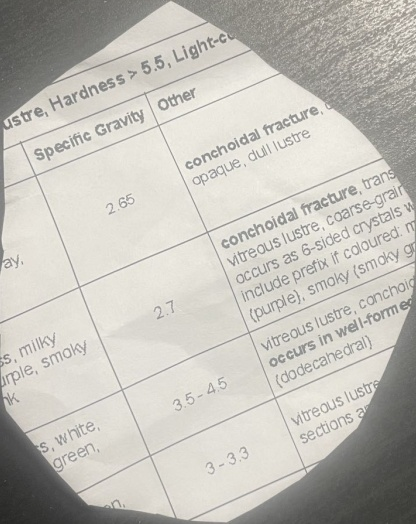
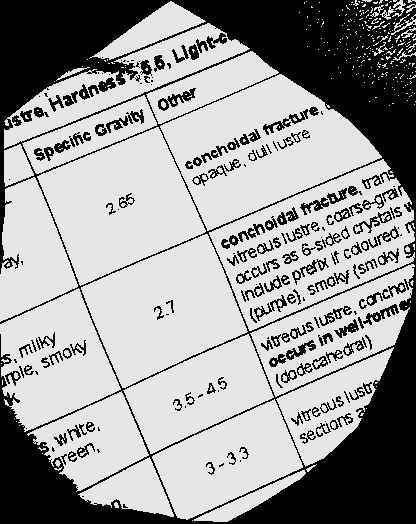
solved irregular shape circumstance but not yet successful to read text

diff --git a/main.py b/main.py
@@ -115,6 +115,8 @@ def ocrTextExtracter():
     outerContour = findContours(resizedImg)
 
     transformImg = transform(image,outerContour.reshape(4,2)*ratio)
+    transformImg = cv.cvtColor(transformImg, cv.COLOR_BGR2GRAY)
+    ret,transformImg = cv.threshold(transformImg,200,230, cv.THRESH_BINARY)
     showImage(transformImg)
 
     cv.imwrite("result.jpg", transformImg)
